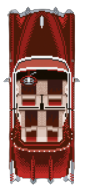
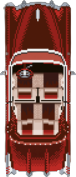
Nuevos sprites y tamaños

diff --git a/src/main/java/roadfighter/objects/BadDriver.java b/src/main/java/roadfighter/objects/BadDriver.java
@@ -19,8 +19,8 @@ public class BadDriver extends Enemy {
 	private Coordinate objective;
 	private double timer;
 	
-	private final int WIDTH = 80;
-	private final int HEIGHT = 140;
+	private final int WIDTH = 70;
+	private final int HEIGHT = 160;
 	
 	private Random random = new Random();
 	
@@ -46,7 +46,9 @@ public class BadDriver extends Enemy {
 		ArrayList<String> imagenesDrivers = new ArrayList<String>();
 		imagenesDrivers.add("file:src/resources/images/Enemy1.png");
 		imagenesDrivers.add("file:src/resources/images/Enemy2.png");
-		sprite = new Image(imagenesDrivers.get(random.nextInt(0,2)), WIDTH, HEIGHT, false, false);
+		imagenesDrivers.add("file:src/resources/images/Enemy3.png");
+		imagenesDrivers.add("file:src/resources/images/Enemy4.png");
+		sprite = new Image(imagenesDrivers.get(random.nextInt(0,4)), WIDTH, HEIGHT, true, true);
 	}
 	
 	public void obstructPath(CarPlayer player) {

diff --git a/src/main/java/roadfighter/objects/CarPlayer.java b/src/main/java/roadfighter/objects/CarPlayer.java
@@ -29,8 +29,8 @@ public class CarPlayer extends Vehicle implements Collidator, Renderable{
 	private ImageView render;
 	private Image sprite;
 	
-	private final int WIDTH = 80;
-	private final int HEIGHT = 140;
+	private final int WIDTH = 70;
+	private final int HEIGHT = 160;
 	private final double XMAX = 1056.00;
 	private final double XMIN = 447.00;
 	private Rectangle hitbox;
@@ -181,7 +181,7 @@ public class CarPlayer extends Vehicle implements Collidator, Renderable{
 	}
 	
 	private void initImages(String image) {
-		sprite = new Image(image, WIDTH, HEIGHT, false, false);
+		sprite = new Image(image, WIDTH, HEIGHT, true, true);
 	}
 
 	private void initAudios() {

diff --git a/src/main/java/roadfighter/objects/GoodDriver.java b/src/main/java/roadfighter/objects/GoodDriver.java
@@ -20,8 +20,8 @@ public class GoodDriver extends Enemy implements Collidator, Renderable{
 	private ImageView render;
 	private Image sprite;
 	
-	private final int WIDTH = 84;
-	private final int HEIGHT = 134;
+	private final double WIDTH = 90;
+	private final double HEIGHT = 160;
 	private Rectangle hitbox;
 	
 	public GoodDriver(double x, double y,Direction d,String image) {
@@ -41,7 +41,7 @@ public class GoodDriver extends Enemy implements Collidator, Renderable{
 	}
 	
 	private void initImages(String image) {
-		sprite = new Image(image,80,140.0,false,false);
+		sprite = new Image(image,WIDTH,HEIGHT,true,true);
 	}
 	
 	public void update(double delta) {
